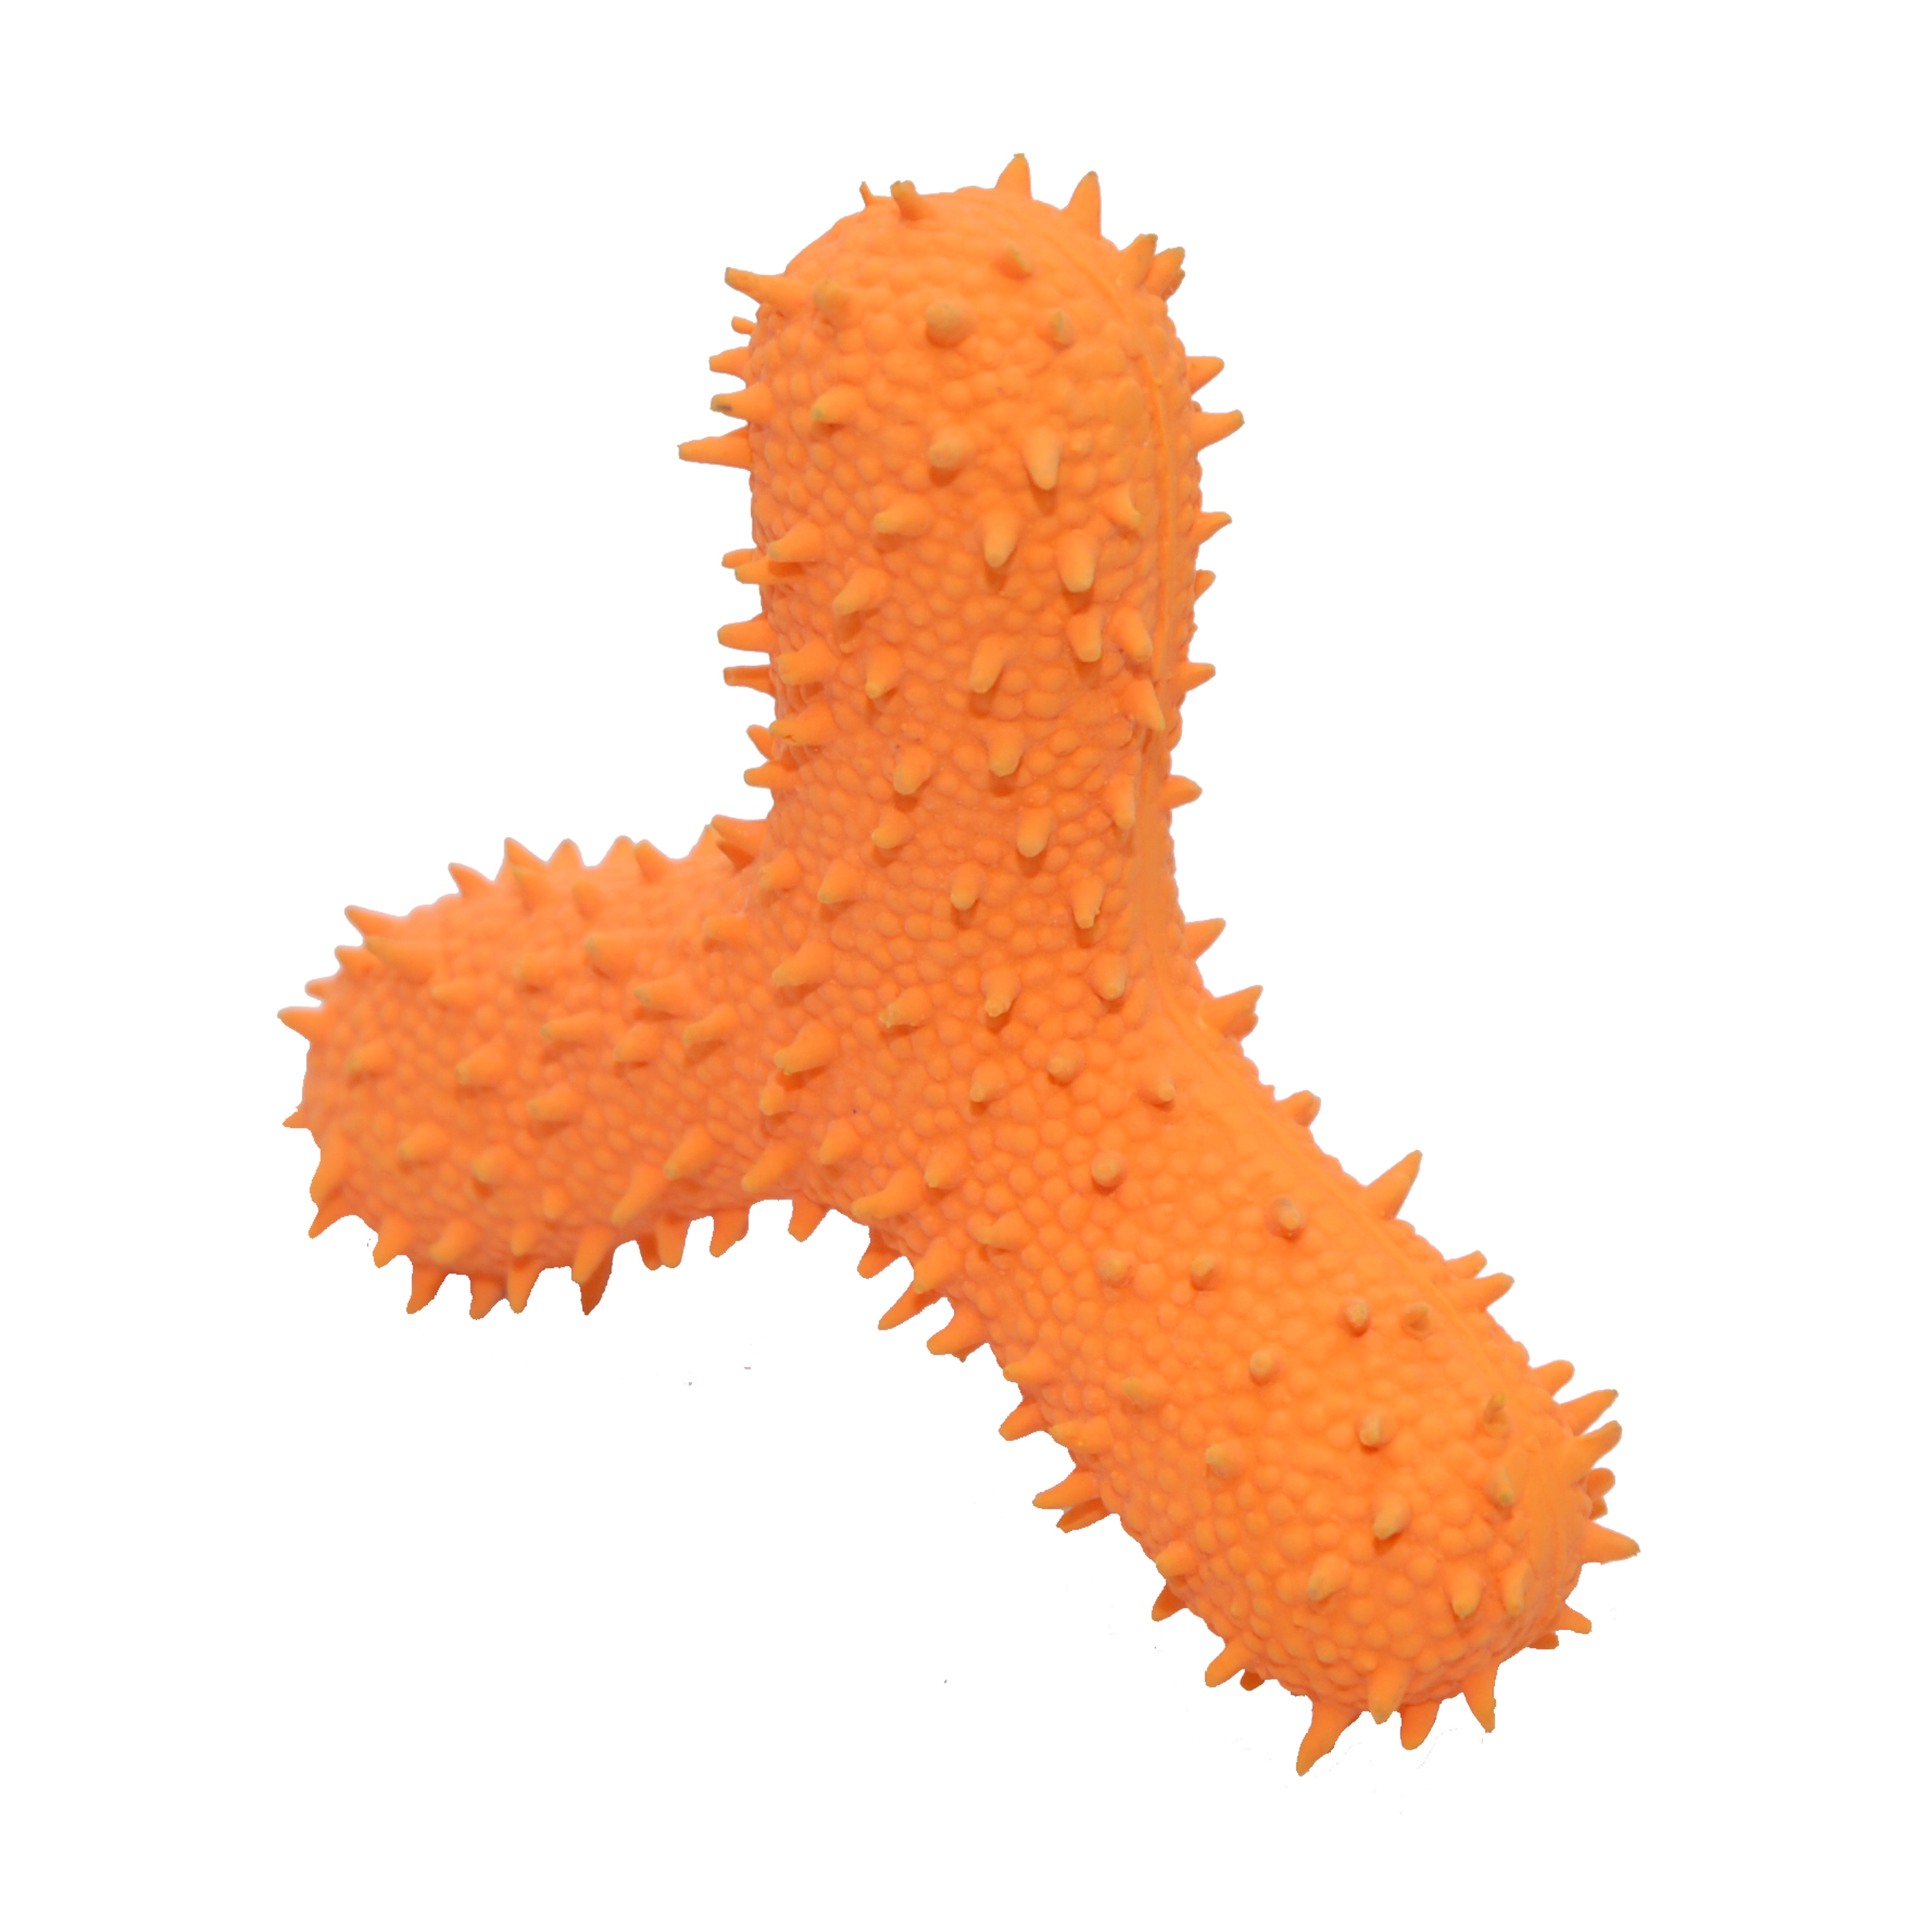
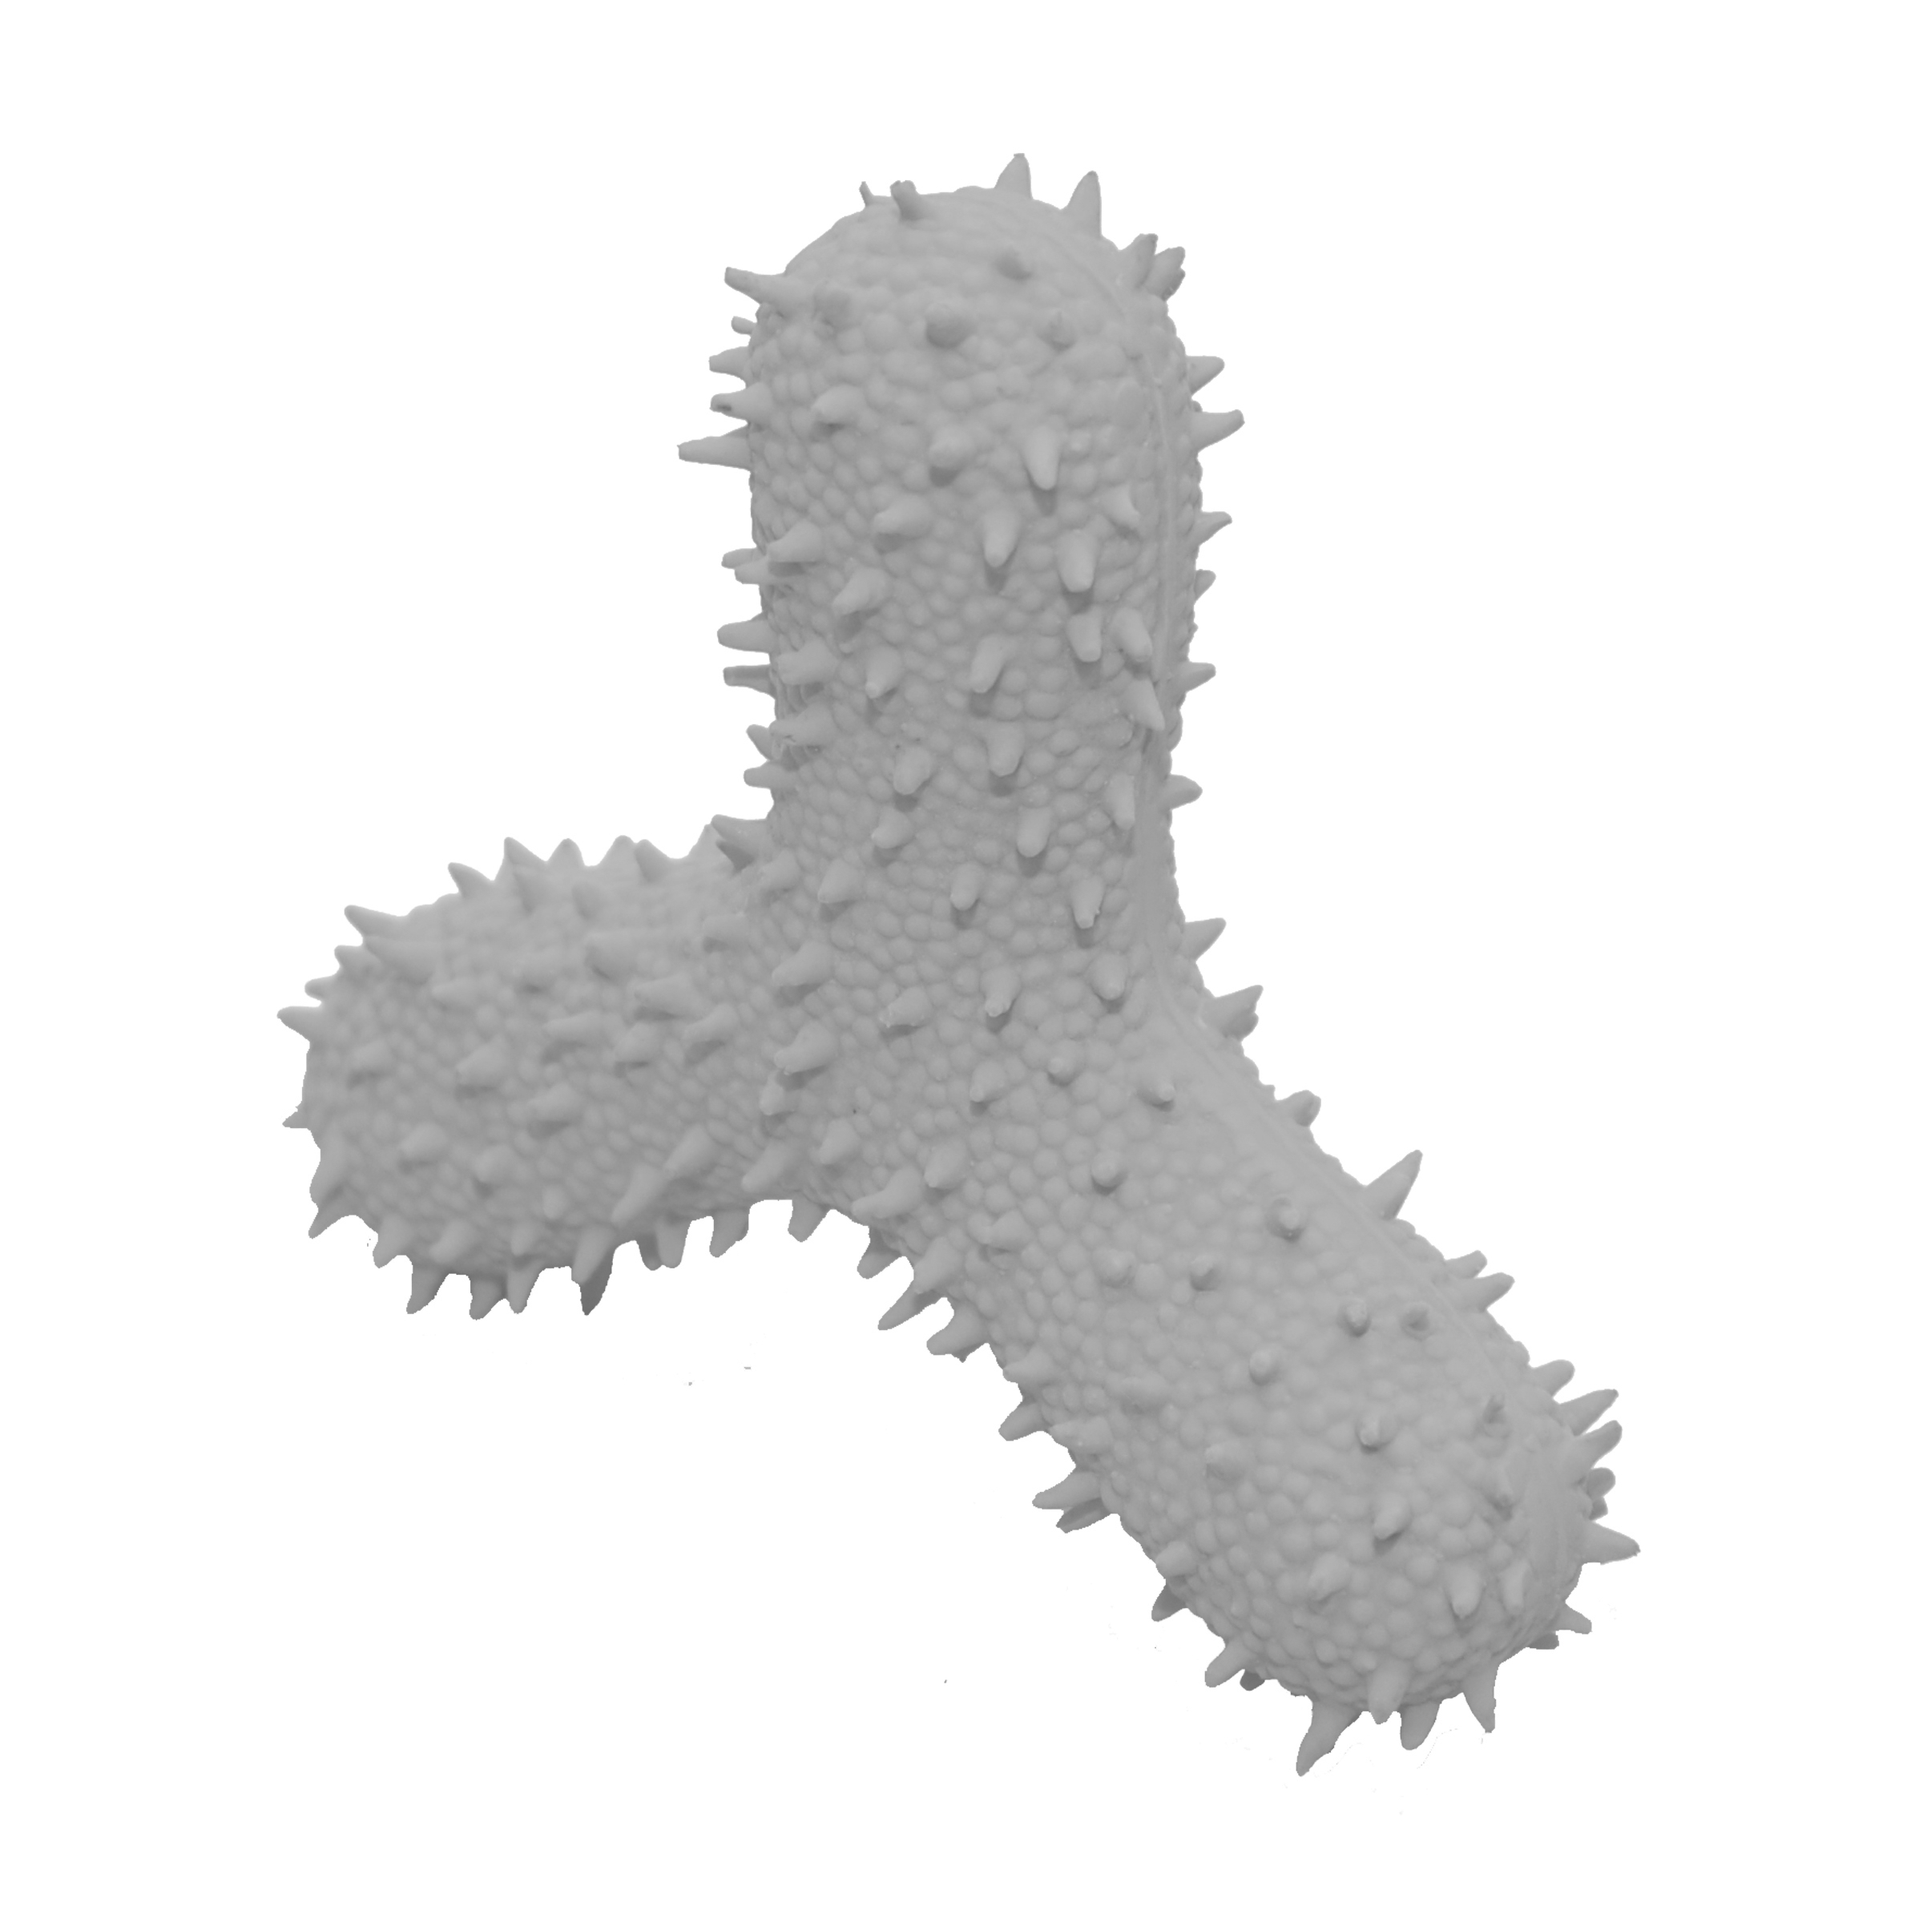
monochrome and fix intro

Changed region(s): [[0.1562, 0.0625, 0.8438, 0.9375]]

diff --git a/experiment/knownFirst.js b/experiment/knownFirst.js
@@ -202,13 +202,17 @@ timeline.push(welcome)
 
 var instructions = {
      type: "html-keyboard-response",
-     stimulus: "<p>On each round of this game, you will see two objects. The <b>target object</b> will have a <strong style='color:blue;'> blue box </strong> around it.</p>" +
+     stimulus: "<br /><br /><br /><br />" +
+               "On each round of this game, you will see two objects. The <b>target object</b> will have a <strong style='color:blue;'> blue box </strong> around it." +
                "<br /><br />" +
-               "Your goal is to type a message into the textbox below the objects that will help a future Turker correctly select the <b>target object</b>. </p>" +
+               "Your goal is to type a message into the textbox below the objects that will help a future Turker correctly select the <b>target object</b>." +
                "<br /><br />" +
-               "<i>Note: The objects objects may be in different locations on the Turker's screen, so messages like 'left' or 'right' will not be effective. <br /><br />" +
-               "Please stay on topic. Random responses will result in rejected Hits. </i></p>" +
+               "The <b> target object </b> may be on a different side of the Turker's screen, so messages like 'left' or 'right' will not be effective." +
                "<br /><br />" +
+               "<b>However, the rounds of the game will be in the same order, so the Turker will know what you have said earlier in the game.</b>" +
+               "<br /><br /><br /><br /><br /><br />" +
+               "Please stay on topic. Random responses will result in rejected Hits." +
+               "<br /><br /><br /><br /><br /><br />" +
                "We will start with a short practice round. <b>Press any key to continue. </b>",
      post_trial_gap: 200,
      on_finish: function(){

diff --git a/experiment/unkFirst.js b/experiment/unkFirst.js
@@ -202,13 +202,17 @@ timeline.push(welcome)
 
 var instructions = {
      type: "html-keyboard-response",
-     stimulus: "<p>On each round of this game, you will see two objects. The <b>target object</b> will have a <strong style='color:blue;'> blue box </strong> around it.</p>" +
+     stimulus: "<br /><br /><br /><br />" +
+               "On each round of this game, you will see two objects. The <b>target object</b> will have a <strong style='color:blue;'> blue box </strong> around it." +
                "<br /><br />" +
-               "Your goal is to type a message into the textbox below the objects that will help a future Turker correctly select the <b>target object</b>. </p>" +
+               "Your goal is to type a message into the textbox below the objects that will help a future Turker correctly select the <b>target object</b>." +
                "<br /><br />" +
-               "<i>Note: The objects objects may be in different locations on the Turker's screen, so messages like 'left' or 'right' will not be effective. <br /><br />" +
-               "Please stay on topic. Random responses will result in rejected Hits. </i></p>" +
+               "The <b> target object </b> may be on a different side of the Turker's screen, so messages like 'left' or 'right' will not be effective." +
                "<br /><br />" +
+               "<b>However, the rounds of the game will be in the same order, so the Turker will know what you have said earlier in the game.</b>" +
+               "<br /><br /><br /><br /><br /><br />" +
+               "Please stay on topic. Random responses will result in rejected Hits." +
+               "<br /><br /><br /><br /><br /><br />" +
                "We will start with a short practice round. <b>Press any key to continue. </b>",
      post_trial_gap: 200,
      on_finish: function(){
